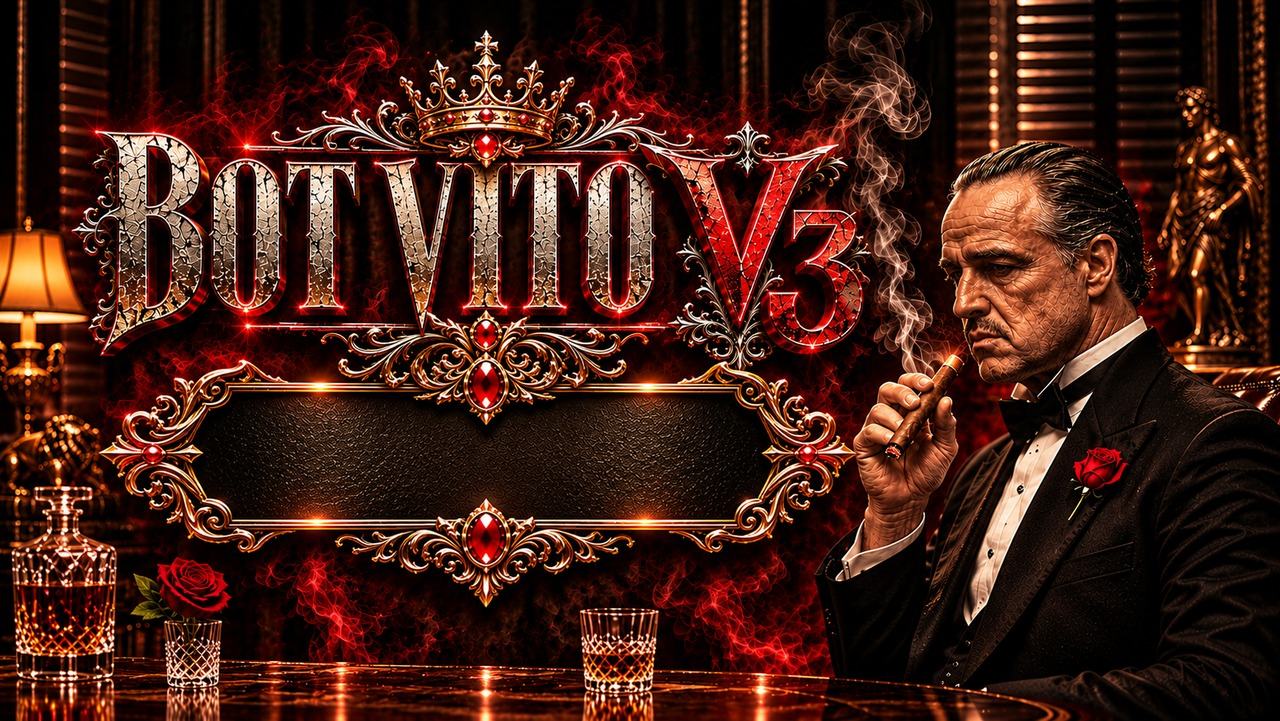
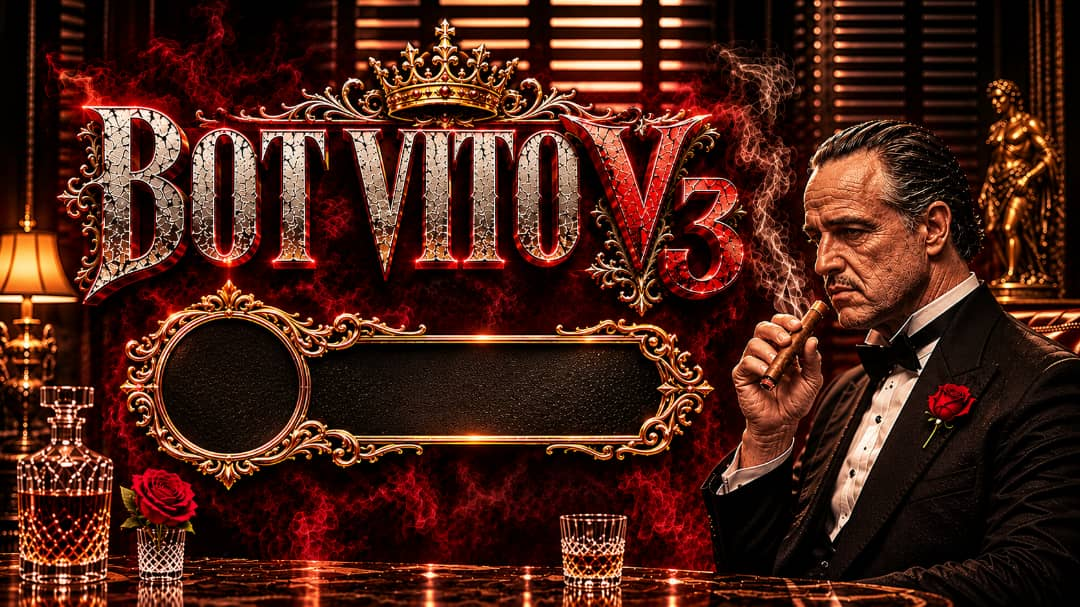
تحديث(المستوى): خلفية إطار جديدة وإحداثيات دقيقة للدائرة والمستطيل

diff --git a/Famiglia/core/levelCard.js b/Famiglia/core/levelCard.js
@@ -10,6 +10,13 @@ const GOLD_LIGHT = "#f7e7a1";
 const GOLD = "#d4af37";
 const GOLD_DARK = "#8a6d1f";
 
+// إحداثيات مقيسة بالبكسل من خلفية 1080×607.
+const BG_W = 1080;
+const BG_H = 607;
+const AVATAR = { cx: 230, cy: 385, r: 68 };       // الدائرة الفارغة يسار الإطار
+const NAME_Y = 508;                                // أسفل الدائرة
+const PANEL = { x: 304, y: 343, w: 361, h: 91 };   // المستطيل الفارغ يمين الإطار
+
 function registerFont(candidates, family) {
   for (const p of candidates) {
     try {
@@ -22,91 +29,12 @@ function registerFont(candidates, family) {
 const FONT_BOLD = registerFont(["/usr/share/fonts/truetype/dejavu/DejaVuSans-Bold.ttf"], "LevelBold");
 const FONT_REGULAR = registerFont(["/usr/share/fonts/truetype/dejavu/DejaVuSans.ttf"], "LevelRegular");
 
-function roundRect(ctx, x, y, w, h, r) {
-  const radius = Math.max(0, Math.min(r, h / 2, w / 2));
-  ctx.beginPath();
-  ctx.moveTo(x + radius, y);
-  ctx.arcTo(x + w, y, x + w, y + h, radius);
-  ctx.arcTo(x + w, y + h, x, y + h, radius);
-  ctx.arcTo(x, y + h, x, y, radius);
-  ctx.arcTo(x, y, x + w, y, radius);
-  ctx.closePath();
-}
-
 function goldGradient(ctx, x0, y0, x1, y1) {
   const g = ctx.createLinearGradient(x0, y0, x1, y1);
   g.addColorStop(0, GOLD_LIGHT);
   g.addColorStop(0.5, GOLD);
   g.addColorStop(1, GOLD_DARK);
   return g;
-}
-
-/** إطار ذهبي مزدوج يحيط بالبطاقة كلها. */
-function drawOuterFrame(ctx, w, h) {
-  ctx.strokeStyle = goldGradient(ctx, 0, 0, w, h);
-  ctx.lineWidth = 8;
-  ctx.strokeRect(18, 18, w - 36, h - 36);
-  ctx.lineWidth = 2;
-  ctx.strokeStyle = "rgba(212, 175, 55, 0.6)";
-  ctx.strokeRect(36, 36, w - 72, h - 72);
-}
-
-/** لوحة المستوى: إطار ذهبي بداخله رقم المستوى وشريط الخبرة. */
-function drawLevelPanel(ctx, panel) {
-  const { x, y, w, h } = panel;
-
-  ctx.save();
-  ctx.shadowColor = "rgba(0, 0, 0, 0.75)";
-  ctx.shadowBlur = 26;
-  ctx.fillStyle = "rgba(12, 6, 3, 0.72)";
-  roundRect(ctx, x, y, w, h, 26);
-  ctx.fill();
-  ctx.restore();
-
-  ctx.strokeStyle = goldGradient(ctx, x, y, x + w, y + h);
-  ctx.lineWidth = 6;
-  roundRect(ctx, x, y, w, h, 26);
-  ctx.stroke();
-
-  ctx.lineWidth = 2;
-  ctx.strokeStyle = "rgba(247, 231, 161, 0.5)";
-  roundRect(ctx, x + 12, y + 12, w - 24, h - 24, 18);
-  ctx.stroke();
-}
-
-function drawAvatar(ctx, avatar, cx, cy, radius) {
-  ctx.save();
-  ctx.beginPath();
-  ctx.arc(cx, cy, radius, 0, Math.PI * 2);
-  if (avatar) {
-    ctx.clip();
-    const side = Math.min(avatar.width, avatar.height);
-    ctx.drawImage(
-      avatar,
-      (avatar.width - side) / 2,
-      (avatar.height - side) / 2,
-      side,
-      side,
-      cx - radius,
-      cy - radius,
-      radius * 2,
-      radius * 2,
-    );
-  } else {
-    ctx.fillStyle = "rgba(26, 13, 6, 0.92)";
-    ctx.fill();
-  }
-  ctx.restore();
-
-  ctx.save();
-  ctx.shadowColor = "rgba(0, 0, 0, 0.8)";
-  ctx.shadowBlur = 18;
-  ctx.beginPath();
-  ctx.arc(cx, cy, radius, 0, Math.PI * 2);
-  ctx.strokeStyle = goldGradient(ctx, cx - radius, cy - radius, cx + radius, cy + radius);
-  ctx.lineWidth = 8;
-  ctx.stroke();
-  ctx.restore();
 }
 
 function cleanJid(jid = "") {
@@ -128,94 +56,81 @@ export async function resolveAvatar(sock, jid) {
   }
 }
 
-export async function renderLevelCard({ avatar, displayName, level, xp, currentFloor, nextFloor, missing }) {
-  const background = await loadImage(await readFile(BACKGROUND_PATH));
-  const w = background.width;
-  const h = background.height;
-
-  const canvas = createCanvas(w, h);
-  const ctx = canvas.getContext("2d");
-  ctx.drawImage(background, 0, 0, w, h);
-
-  // تعتيم خفيف للشريط السفلي لإبراز الصورة والمستوى فوقه.
-  const shade = ctx.createLinearGradient(0, h * 0.55, 0, h);
-  shade.addColorStop(0, "rgba(0, 0, 0, 0)");
-  shade.addColorStop(1, "rgba(0, 0, 0, 0.5)");
-  ctx.fillStyle = shade;
-  ctx.fillRect(0, h * 0.55, w, h * 0.45);
-
-  drawOuterFrame(ctx, w, h);
-
-  const cy = Math.round(h * 0.70);
-
-  // يسار الإطار: صورة المستخدم في دائرة ذهبية.
-  const avatarRadius = Math.round(h * 0.13);
-  const avatarX = Math.round(w * 0.24);
-  drawAvatar(ctx, avatar, avatarX, cy, avatarRadius);
-
-  if (displayName) {
-    const name = displayName.length > 18 ? `${displayName.slice(0, 18)}…` : displayName;
-    ctx.textAlign = "center";
-    ctx.font = `bold 30px "${FONT_BOLD}"`;
-    ctx.fillStyle = "#f3ead8";
-    ctx.shadowColor = "rgba(0, 0, 0, 0.9)";
-    ctx.shadowBlur = 12;
-    ctx.fillText(name, avatarX, cy + avatarRadius + 44);
-    ctx.shadowBlur = 0;
-  }
-
-  // يمين الإطار: لوحة المستوى برقم ذهبي كبير.
-  const panelW = Math.round(w * 0.40);
-  const panelH = Math.round(h * 0.40);
-  const panelX = Math.round(w * 0.54);
-  const panelY = cy - Math.round(panelH / 2);
-  drawLevelPanel(ctx, { x: panelX, y: panelY, w: panelW, h: panelH });
-
-  const cx = panelX + panelW / 2;
-  ctx.textAlign = "center";
-  ctx.shadowColor = "rgba(0, 0, 0, 0.85)";
-  ctx.shadowBlur = 12;
-
-  ctx.font = `22px "${FONT_REGULAR}"`;
-  ctx.fillStyle = "rgba(232, 224, 207, 0.8)";
-  ctx.fillText("المستوى", cx, panelY + 56);
-
-  ctx.font = `bold 92px "${FONT_BOLD}"`;
-  ctx.fillStyle = goldGradient(ctx, panelX, panelY, panelX + panelW, panelY + panelH);
-  ctx.fillText(String(level), cx, panelY + 150);
-
-  const barW = panelW - 90;
-  const barH = 20;
-  const barX = panelX + 45;
-  const barY = panelY + panelH - 104;
-
-  ctx.shadowBlur = 0;
-  ctx.fillStyle = "rgba(0, 0, 0, 0.6)";
-  roundRect(ctx, barX, barY, barW, barH, barH / 2);
-  ctx.fill();
-
-  const ratio = nextFloor > currentFloor
-    ? Math.min(1, Math.max(0, (xp - currentFloor) / (nextFloor - currentFloor)))
-    : 0;
-  if (ratio > 0) {
-    ctx.fillStyle = goldGradient(ctx, barX, 0, barX + barW, 0);
-    roundRect(ctx, barX, barY, Math.max(barH, barW * ratio), barH, barH / 2);
+/** يقصّ الصورة الرمزية على شكل دائرة داخل الفتحة اليسرى. */
+function drawAvatar(ctx, avatar, cx, cy, radius) {
+  ctx.save();
+  ctx.beginPath();
+  ctx.arc(cx, cy, radius, 0, Math.PI * 2);
+  ctx.closePath();
+  if (avatar) {
+    ctx.clip();
+    const side = Math.min(avatar.width, avatar.height);
+    ctx.drawImage(
+      avatar,
+      (avatar.width - side) / 2,
+      (avatar.height - side) / 2,
+      side,
+      side,
+      cx - radius,
+      cy - radius,
+      radius * 2,
+      radius * 2,
+    );
+  } else {
+    ctx.fillStyle = "rgba(26, 13, 6, 0.92)";
     ctx.fill();
   }
+  ctx.restore();
 
-  ctx.strokeStyle = "rgba(212, 175, 55, 0.5)";
-  ctx.lineWidth = 2;
-  roundRect(ctx, barX, barY, barW, barH, barH / 2);
+  ctx.save();
+  ctx.beginPath();
+  ctx.arc(cx, cy, radius, 0, Math.PI * 2);
+  ctx.strokeStyle = goldGradient(ctx, cx - radius, cy - radius, cx + radius, cy + radius);
+  ctx.lineWidth = 6;
   ctx.stroke();
+  ctx.restore();
+}
 
-  ctx.shadowColor = "rgba(0, 0, 0, 0.85)";
-  ctx.shadowBlur = 10;
-  ctx.font = `24px "${FONT_REGULAR}"`;
-  ctx.fillStyle = "#e8e0cf";
-  ctx.fillText(`${xp} / ${nextFloor}`, cx, barY + 54);
-  ctx.font = `20px "${FONT_REGULAR}"`;
-  ctx.fillStyle = "rgba(230, 220, 200, 0.72)";
-  ctx.fillText(`المتبقي ${missing} خبرة`, cx, barY + 86);
+/** يكتب اسم المستخدم أسفل الدائرة. */
+function drawName(ctx, displayName, cx, y) {
+  if (!displayName) return;
+  const name = displayName.length > 20 ? `${displayName.slice(0, 20)}…` : displayName;
+  ctx.save();
+  ctx.textAlign = "center";
+  ctx.textBaseline = "middle";
+  ctx.font = `bold 32px "${FONT_BOLD}"`;
+  ctx.shadowColor = "rgba(0, 0, 0, 0.95)";
+  ctx.shadowBlur = 14;
+  ctx.fillStyle = "#f3ead8";
+  ctx.fillText(name, cx, y);
+  ctx.restore();
+}
+
+/** يكتب رقم المستوى بخط ذهبي كبير داخل المستطيل الفارغ يمين الإطار. */
+function drawLevel(ctx, level, panel) {
+  const cx = panel.x + panel.w / 2;
+  const cy = panel.y + panel.h / 2;
+  ctx.save();
+  ctx.textAlign = "center";
+  ctx.textBaseline = "middle";
+  ctx.font = `bold 66px "${FONT_BOLD}"`;
+  ctx.shadowColor = "rgba(0, 0, 0, 0.9)";
+  ctx.shadowBlur = 16;
+  ctx.fillStyle = goldGradient(ctx, panel.x, panel.y, panel.x + panel.w, panel.y + panel.h);
+  ctx.fillText(`LVL ${level}`, cx, cy);
+  ctx.restore();
+}
+
+export async function renderLevelCard({ avatar, displayName, level }) {
+  const background = await loadImage(await readFile(BACKGROUND_PATH));
+
+  const canvas = createCanvas(BG_W, BG_H);
+  const ctx = canvas.getContext("2d");
+  ctx.drawImage(background, 0, 0, BG_W, BG_H);
+
+  drawAvatar(ctx, avatar, AVATAR.cx, AVATAR.cy, AVATAR.r);
+  drawName(ctx, displayName, AVATAR.cx, NAME_Y);
+  drawLevel(ctx, level, PANEL);
 
   return canvas.toBuffer("image/jpeg", 92);
 }

diff --git a/Famiglia/plugins/اقتصاد/مستوى.js b/Famiglia/plugins/اقتصاد/مستوى.js
@@ -5,12 +5,12 @@ import { log } from "../../core/logger.js";
 
 export default {
   name: ["مستوى"],
-  description: "يعرض مستواك ونقاط الخبرة في بطاقة مصوّرة",
+  description: "يعرض مستواك في بطاقة مصوّرة داخل الإطار",
   category: "الاقتصاد",
 
   async run({ sock, from, sender, msg, reply }) {
     const user = db.getUser(sender);
-    const { level, xp, currentFloor, nextFloor, missing } = xpProgress(user.xp || 0);
+    const { level, xp, missing } = xpProgress(user.xp || 0);
 
     try {
       const avatar = await resolveAvatar(sock, sender);
@@ -18,10 +18,6 @@ export default {
         avatar,
         displayName: db.getPushName(sender) || null,
         level,
-        xp,
-        currentFloor,
-        nextFloor,
-        missing,
       });
       await sock.sendMessage(from, { image, caption: "" }, { quoted: msg });
     } catch (e) {

diff --git a/README.md b/README.md
@@ -261,7 +261,7 @@ messageHandler.js  ──►  يقرأ كل رسالة واردة
 - ملف `تشغيل-وايقاف.js` أداةٌ من النوع `bot` (`botOn`): إيقاف/تشغيل البوت في المجموعة، يظهر في لوحة رقم البوت وحده، وإعداده **لكل (رقم + مجموعة)** — رقم واحد قد يتوقف في مجموعة ويبقى يعمل في غيرها. الافتراضي: يعمل.
 - ملف `عرض-مره-واحده.js` مضاد مجموعة (`viewonce`): يكشف وسائط «العرض مرة واحدة» (صورة/فيديو/صوت) ويعيد إرسالها ظاهرة. يعمل على الرسائل بلا نص، فالوسائط تُمرَّر للمضادات لا النص وحده.
 - ملف `رفع-مستوى-تلقائي.js` مضاد مجموعة (`levelup`): يمنح الخبرة عند كل رسالة (مرة كل دقيقة) لكل الأعضاء بلا استثناء — حتى المشرفين — ويعلن الترقية عند تجاوز حدّ مستوى. مفعّل افتراضياً، ويُطفأ من اللوحة.
-- أمر `مستوى` يعرض البطاقة المصوّرة على خلفية فيتو كورليوني (`assets/level-bg.jpg`): **صورة العضو يساراً** في دائرة ذهبية، و**لوحة المستوى يميناً** برقم ذهبي كبير وشريط تقدّم الخبرة. يرسمها `levelCard.js` بـ `@napi-rs/canvas`، ويرجع إلى نص عادي إن تعذّر الرسم.
+- أمر `مستوى` يعرض البطاقة المصوّرة على إطار (`assets/level-bg.jpg`، 1080×607): صورة العضو مقصوصة دائرياً داخل الفتحة اليسرى عند `(230, 385)` بنصف قطر `68`، والاسم أسفلها، و`LVL <المستوى>` بخط ذهبي كبير داخل الفتحة اليمنى عند `(304, 343, 361×91)`. يرسمها `levelCard.js` بـ `@napi-rs/canvas`، ويرجع إلى نص عادي إن تعذّر الرسم.
 - تكرار التشغيل مأمون: تفعيل «مشاهدة-ستوري» و«مشاهدة-تفاعل-ستوري» معاً لا يُرسل إيصال قراءة مرتين.
 
 ### الجلسة وإعادة الاتصال
